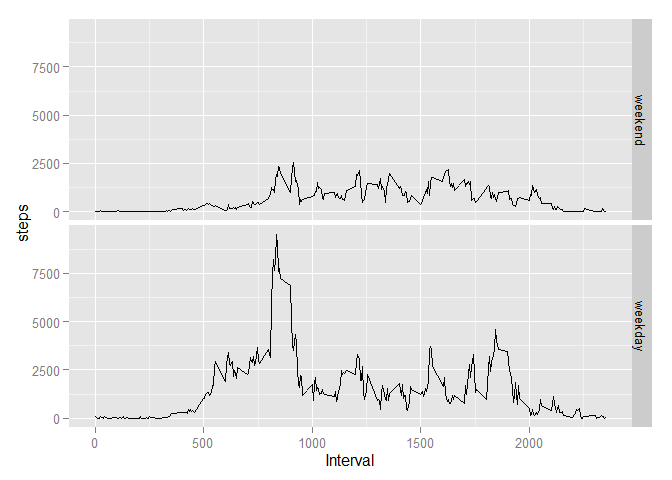
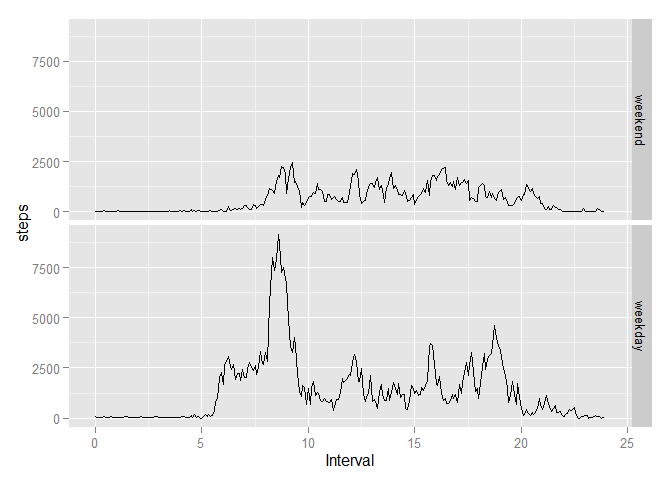
Corrected a mistake

diff --git a/PA1_template.html b/PA1_template.html
@@ -59,7 +59,8 @@ if (window.hljs && document.readyState && document.readyState === "complete") {
 <pre class="r"><code>library(ggplot2)</code></pre>
 <pre><code>## Warning: package 'ggplot2' was built under R version 3.1.3</code></pre>
 <pre class="r"><code>setwd(&quot;c:\\users\\user\\desktop&quot;)
-data = read.csv(&quot;activity.csv&quot;)</code></pre>
+data = read.csv(&quot;activity.csv&quot;)
+data$interval = (data$interval %% 100) / 60 + as.integer(data$interval / 100)</code></pre>
 </div>
 <div id="what-is-mean-total-number-of-steps-taken-per-day" class="section level2">
 <h2>What is mean total number of steps taken per day?</h2>
@@ -144,12 +145,12 @@ freqPerInt = freqPerInt / xtabs(!is.na(steps) ~ interval, data = data)
 freqPerInt = as.data.frame(freqPerInt)
 ggplot(freqPerInt, aes(x = as.numeric(as.character(interval)), y = Freq)) +
   geom_line() +
-  xlab(&quot;Interval&quot;) +
-  ylab(&quot;Steps&quot;)</code></pre>
[1 lines of base64/hex data omitted]
+  xlab(&quot;Interval&quot;) + ylab(&quot;Steps&quot;) +
+  xlim(0,24) + ylim(0, NA)</code></pre>
[1 lines of base64/hex data omitted]
 <p>Which interval contains the maximun number of step.</p>
 <pre class="r"><code>as.character(freqPerInt$interval[which.max(freqPerInt$Freq)])</code></pre>
-<pre><code>## [1] &quot;835&quot;</code></pre>
+<pre><code>## [1] &quot;8.58333333333333&quot;</code></pre>
 </div>
 <div id="imputing-missing-values" class="section level2">
 <h2>Imputing missing values</h2>
@@ -170,11 +171,11 @@ ggplot(freqPerInt, aes(x = as.numeric(as.character(interval)), y = Freq)) +
 <p>Make a histogram of the total number of steps taken each day.</p>
 <pre class="r"><code>stepPerDay = xtabs(steps ~ date, data = data)
 barplot(stepPerDay)</code></pre>
[2 lines of base64/hex data omitted]
 <p>Mean and median total number of steps taken per day.</p>
 <pre class="r"><code>summary(as.vector(stepPerDay))[c(&quot;Median&quot;, &quot;Mean&quot;)]</code></pre>
 <pre><code>## Median   Mean 
-##  10400  10280</code></pre>
+##  10400   9373</code></pre>
 </div>
 <div id="are-there-differences-in-activity-patterns-between-weekdays-and-weekends" class="section level2">
 <h2>Are there differences in activity patterns between weekdays and weekends?</h2>
@@ -182,8 +183,11 @@ barplot(stepPerDay)</code></pre>
 <pre class="r"><code>data$weekday = factor(weekdays(as.Date(as.character(data$date))) %in% c(&quot;星期六&quot;,&quot;星期日&quot;), levels = c(TRUE, FALSE), labels = c(&quot;weekend&quot;, &quot;weekday&quot;))
 freqPerInt2 = as.data.frame(xtabs(steps ~ interval + weekday, data = data))</code></pre>
 <p>Creat final plot.</p>
-<pre class="r"><code>ggplot(freqPerInt2, aes(x = as.numeric(as.character(interval)), y = Freq)) + geom_line() +  facet_grid(weekday ~ .) + xlab(&quot;Interval&quot;)+ ylab(&quot;steps&quot;)</code></pre>
[1 lines of base64/hex data omitted]
+<pre class="r"><code>ggplot(freqPerInt2, aes(x = as.numeric(as.character(interval)), y = Freq)) +
+  geom_line() +  facet_grid(weekday ~ .) + 
+  xlab(&quot;Interval&quot;)+ ylab(&quot;steps&quot;) +
+  xlim(0,24) + ylim(0, NA)</code></pre>
[1 lines of base64/hex data omitted]
 </div>
 </div>
 

diff --git a/PA1_template.md b/PA1_template.md
@@ -14,6 +14,7 @@ library(ggplot2)
 ```r
 setwd("c:\\users\\user\\desktop")
 data = read.csv("activity.csv")
+data$interval = (data$interval %% 100) / 60 + as.integer(data$interval / 100)
 ```
 
 ## What is mean total number of steps taken per day?
@@ -124,8 +125,8 @@ freqPerInt = freqPerInt / xtabs(!is.na(steps) ~ interval, data = data)
 freqPerInt = as.data.frame(freqPerInt)
 ggplot(freqPerInt, aes(x = as.numeric(as.character(interval)), y = Freq)) +
   geom_line() +
-  xlab("Interval") +
-  ylab("Steps")
+  xlab("Interval") + ylab("Steps") +
+  xlim(0,24) + ylim(0, NA)
 ```
 
 ![](PA1_template_files/figure-html/unnamed-chunk-5-1.png) 
@@ -138,7 +139,7 @@ as.character(freqPerInt$interval[which.max(freqPerInt$Freq)])
 ```
 
 ```
-## [1] "835"
+## [1] "8.58333333333333"
 ```
 
 ## Imputing missing values
@@ -189,7 +190,7 @@ summary(as.vector(stepPerDay))[c("Median", "Mean")]
 
 ```
 ## Median   Mean 
-##  10400  10280
+##  10400   9373
 ```
 
 ## Are there differences in activity patterns between weekdays and weekends?
@@ -206,7 +207,10 @@ Creat final plot.
 
 
 ```r
-ggplot(freqPerInt2, aes(x = as.numeric(as.character(interval)), y = Freq)) + geom_line() +  facet_grid(weekday ~ .) + xlab("Interval")+ ylab("steps")
+ggplot(freqPerInt2, aes(x = as.numeric(as.character(interval)), y = Freq)) +
+  geom_line() +  facet_grid(weekday ~ .) + 
+  xlab("Interval")+ ylab("steps") +
+  xlim(0,24) + ylim(0, NA)
 ```
 
 ![](PA1_template_files/figure-html/unnamed-chunk-12-1.png) 

diff --git a/README.md b/README.md
@@ -14,6 +14,7 @@ library(ggplot2)
 ```r
 setwd("c:\\users\\user\\desktop")
 data = read.csv("activity.csv")
+data$interval = (data$interval %% 100) / 60 + as.integer(data$interval / 100)
 ```
 
 ## What is mean total number of steps taken per day?
@@ -124,8 +125,8 @@ freqPerInt = freqPerInt / xtabs(!is.na(steps) ~ interval, data = data)
 freqPerInt = as.data.frame(freqPerInt)
 ggplot(freqPerInt, aes(x = as.numeric(as.character(interval)), y = Freq)) +
   geom_line() +
-  xlab("Interval") +
-  ylab("Steps")
+  xlab("Interval") + ylab("Steps") +
+  xlim(0,24) + ylim(0, NA)
 ```
 
 ![](PA1_template_files/figure-html/unnamed-chunk-5-1.png) 
@@ -138,7 +139,7 @@ as.character(freqPerInt$interval[which.max(freqPerInt$Freq)])
 ```
 
 ```
-## [1] "835"
+## [1] "8.58333333333333"
 ```
 
 ## Imputing missing values
@@ -189,7 +190,7 @@ summary(as.vector(stepPerDay))[c("Median", "Mean")]
 
 ```
 ## Median   Mean 
-##  10400  10280
+##  10400   9373
 ```
 
 ## Are there differences in activity patterns between weekdays and weekends?
@@ -206,7 +207,10 @@ Creat final plot.
 
 
 ```r
-ggplot(freqPerInt2, aes(x = as.numeric(as.character(interval)), y = Freq)) + geom_line() +  facet_grid(weekday ~ .) + xlab("Interval")+ ylab("steps")
+ggplot(freqPerInt2, aes(x = as.numeric(as.character(interval)), y = Freq)) +
+  geom_line() +  facet_grid(weekday ~ .) + 
+  xlab("Interval")+ ylab("steps") +
+  xlim(0,24) + ylim(0, NA)
 ```
 
 ![](PA1_template_files/figure-html/unnamed-chunk-12-1.png) 
